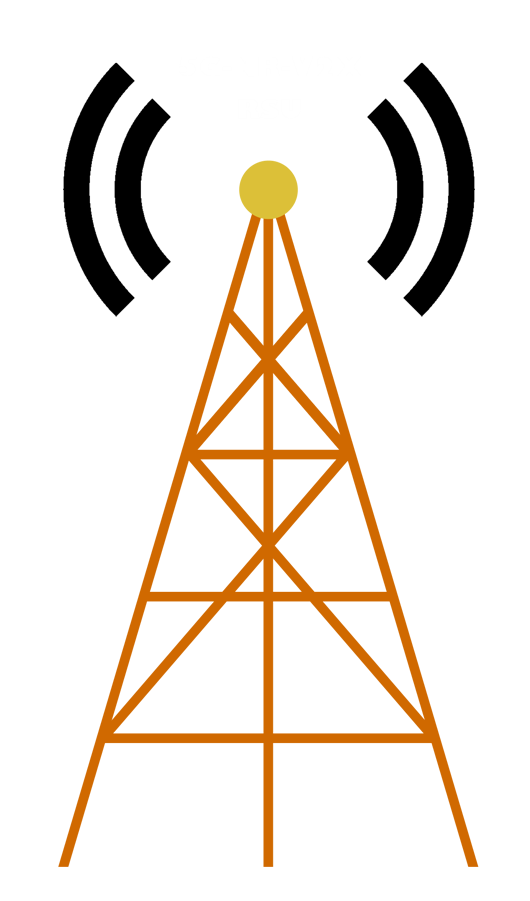
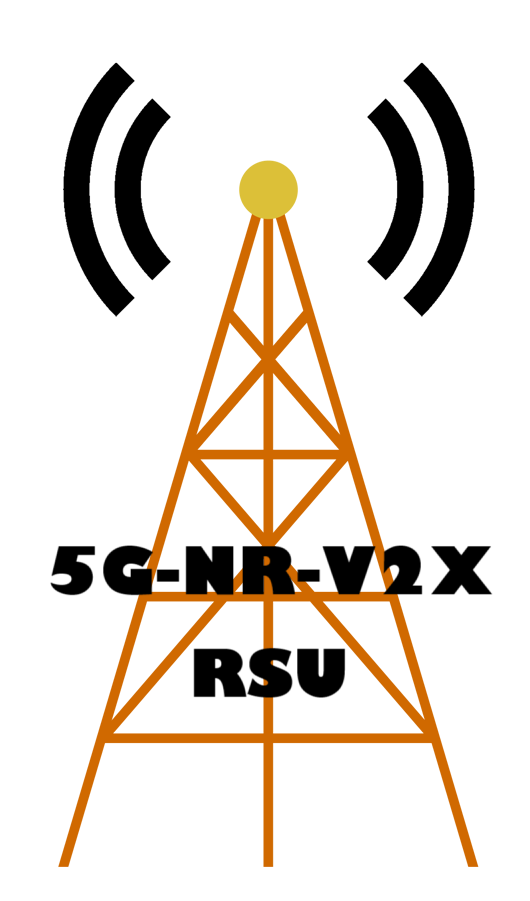
KETI-40 add vehicle rsu

Changed region(s): [[0.0906, 0.5905, 0.9358, 0.6837], [0.3623, 0.7148, 0.6642, 0.7769]]

diff --git a/src/apps/html/main.html b/src/apps/html/main.html
@@ -17,6 +17,18 @@ body { margin: 0; padding: 0; }
     const cKetiPangyoLatitude = 37.4064;
     const cKetiPangyolongitude = 127.1021;
 
+    const cPangyoRsuLatitude18 = 37.405254;
+    const cPangyoRsuLongitude18 = 127.103609;
+
+    const cPangyoRsuLatitude31 = 37.411751;
+    const cPangyoRsuLongitude31 = 127.095019;
+
+    const cPangyoRsuLatitude16 = 37.409221;
+    const cPangyoRsuLongitude16 = 127.099505;
+
+    const cPangyoRsuLatitude17 = 37.406536;
+    const cPangyoRsuLongitude17 = 127.100765;
+
 	mapboxgl.accessToken = 'pk.eyJ1IjoieWVzYm1hbiIsImEiOiJjbHoxNHVydHQyNzBzMmpzMHNobGUxNnZ6In0.bAFH10On30d_Cj-zTMi53Q';
     const map = new mapboxgl.Map({
         container: 'map',
@@ -27,24 +39,20 @@ body { margin: 0; padding: 0; }
     });
 
     map.addControl(new mapboxgl.NavigationControl());
-    //map.scrollZoom.disable();
 
     map.on('style.load', () => {
         map.setFog({}); // Set the default atmosphere style
     });
 
     map.on('load', () => {
-        // Load an image from an external URL.
         map.loadImage(
             'https://raw.githubusercontent.com/KETI-A/athena/main/src/apps/html/images/keti_ci.png',
             (error, image) => {
                 if (error) throw error;
 
-                // Add the image to the map style.
-                map.addImage('cat', image);
+                map.addImage('keti-log', image);
 
-                // Add a data source containing one point feature.
-                map.addSource('point', {
+                map.addSource('keti_log_src', {
                     'type': 'geojson',
                     'data': {
                         'type': 'FeatureCollection',
@@ -53,26 +61,64 @@ body { margin: 0; padding: 0; }
                                 'type': 'Feature',
                                 'geometry': {
                                     'type': 'Point',
-                                    'coordinates': [127.1021, 37.4064]
+                                    'coordinates': [cKetiPangyolongitude, cKetiPangyoLatitude]
                                 }
                             }
                         ]
                     }
                 });
 
-                // Add a layer to use the image to represent the data.
                 map.addLayer({
-                    'id': 'points',
+                    'id': 'keti',
                     'type': 'symbol',
-                    'source': 'point', // reference the data source
+                    'source': 'keti_log_src',
                     'layout': {
-                        'icon-image': 'cat', // reference the image
+                        'icon-image': 'keti-log',
                         'icon-size': 0.50
                     }
                 });
             }
         );
+        
+        map.loadImage(
+            'https://raw.githubusercontent.com/KETI-A/athena/main/src/apps/html/images/5g-nr-v2x-rsu.png',
+            (error, image) => {
+                if (error) throw error;
+
+                map.addImage('rsu', image);
+
+                map.addSource('rsu-src', {
+                    'type': 'geojson',
+                    'data': {
+                        'type': 'FeatureCollection',
+                        'features': [
+                            {
+                                'type': 'Feature',
+                                'geometry': {
+                                    'type': 'Point',
+                                    'coordinates': [cPangyoRsuLongitude18, cPangyoRsuLatitude18]
+                                }
+                            }
+                        ]
+                    }
+                });
+
+                map.addLayer({
+                    'id': 'RSU18-ARO-3-03',
+                    'type': 'symbol',
+                    'source': 'rsu-src',
+                    'layout': {
+                        'icon-image': 'rsu',
+                        'icon-size': 0.15
+                    }
+                });
+            }
+        );
+        
     });
+
+</script>
+    
 </script>
 
 </body>
